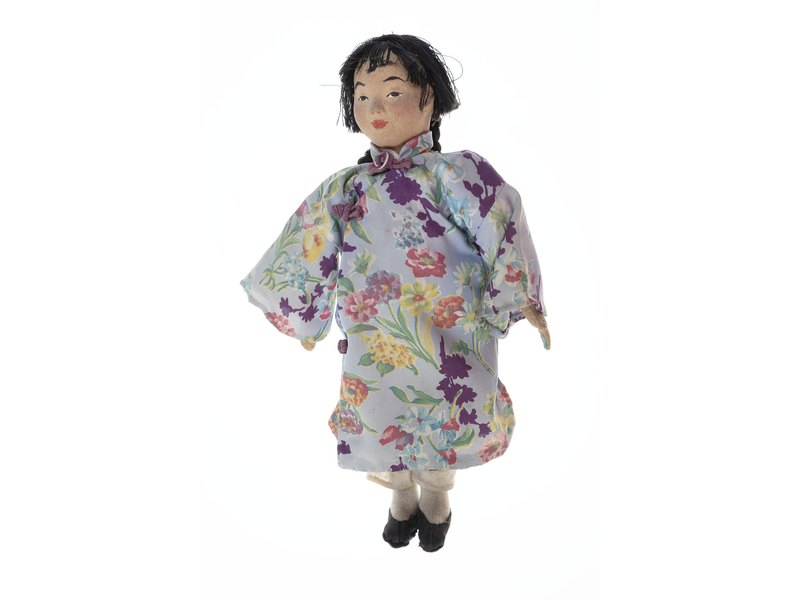
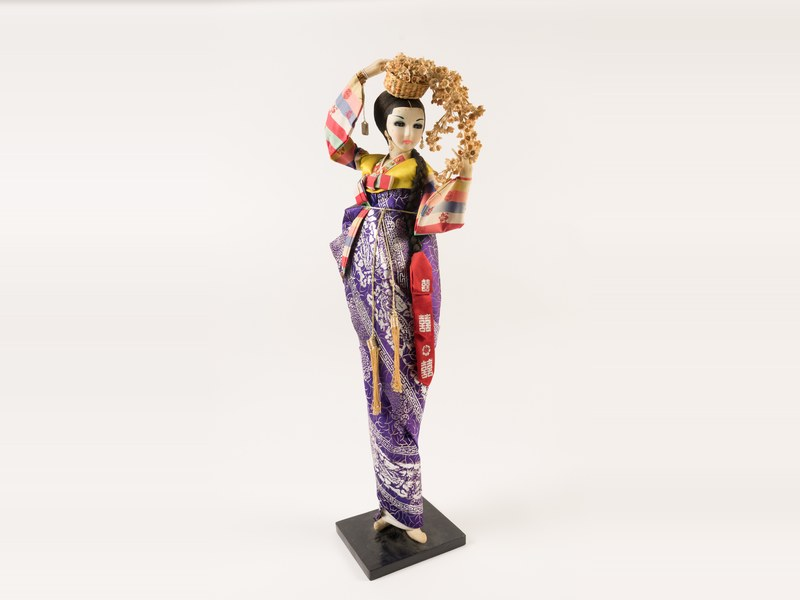
cards: 第24巻の인형を中国風の人形から韓服（チマ・チョゴリ）の韓国の人形（オークランド博物館・CC BY 4.0）に、팽이を上から見た金属のこまから回っている形が分かるカラフルなこま（Skitterphoto・CC0）に差し替え・PHOTO_VER=11・クレジット更新

Changed region(s): [[0.2812, 0.0, 1.0, 0.99], [0.0, 0.0, 0.4062, 0.03]]

diff --git a/cards.html b/cards.html
@@ -1155,14 +1155,14 @@ var VOLUMES = [
   "23-pilteong": { f: "assets/photos/v23-pilteong.jpg", a: "ABX", l: "CC BY-SA 4.0", u: "https://commons.wikimedia.org/wiki/File:School_pencil_cases.jpg" },
   "23-saekjongi": { f: "assets/photos/v23-saekjongi.jpg", a: "Dean Hochman", l: "CC BY 2.0", u: "https://commons.wikimedia.org/wiki/File:Colored_paper_-_Flickr_-_Dean_Hochman.jpg" },
   "23-mulgam": { f: "assets/photos/v23-mulgam.jpg", a: "Ariel Waldman from Muncie", l: "CC BY-SA 2.0", u: "https://commons.wikimedia.org/wiki/File:Set_of_watercolor_paints_-_Ariel_Waldman.jpg" },
-  "24-inhyeong": { f: "assets/photos/v24-inhyeong.jpg", a: "W.P.A. of St. Louis County", l: "Public domain", u: "https://commons.wikimedia.org/wiki/File:Chinese_Girl_Fabric_Doll_Produced_by_the_Works_Progress_Administration_of_St._Louis_County_-_DPLA_-_6e0b0a059e1ed4459fa06752d5005cfc_(page_1).jpg" },
+  "24-inhyeong": { f: "assets/photos/v24-inhyeong.jpg", a: "Auckland Museum", l: "CC BY 4.0", u: "https://commons.wikimedia.org/wiki/File:Doll_(AM_51185-1).jpg" },
   "24-gominhyeong": { f: "assets/photos/v24-gominhyeong.jpg", a: "Jacek Halicki", l: "CC BY-SA 4.0", u: "https://commons.wikimedia.org/wiki/File:2023_Pluszowy_mi%C5%9B.jpg" },
   "24-robot": { f: "assets/photos/v24-robot.jpg", a: "D J Shin", l: "CC BY-SA 3.0", u: "https://commons.wikimedia.org/wiki/File:Ha_Ha_Toys,_Planet_Robot,_Blue,_Main_Street_Toys_Exclusive,_Double_Dose.jpg" },
   "24-beullok": { f: "assets/photos/v24-beullok.jpg", a: "ajay_suresh", l: "CC BY 2.0", u: "https://commons.wikimedia.org/wiki/File:Toy_Blocks_(50995087111).jpg" },
   "24-peojeul": { f: "assets/photos/v24-peojeul.jpg", a: "Hans-Peter Gauster sloppyperfectionist", l: "CC0", u: "https://commons.wikimedia.org/wiki/File:Puzzle_(Unsplash).jpg" },
   "24-pungseon": { f: "assets/photos/v24-pungseon.jpg", a: "Piper from Colorado", l: "CC BY 2.0", u: "https://commons.wikimedia.org/wiki/File:Balloon_bright_(6908691068).jpg" },
   "24-binutbangul": { f: "assets/photos/v24-binutbangul.jpg", a: "Moh tch", l: "CC BY-SA 4.0", u: "https://commons.wikimedia.org/wiki/File:Soap_bubbles_in_Algerian_grassland.jpg" },
-  "24-paengi": { f: "assets/photos/v24-paengi.jpg", a: "Kim Traynor", l: "CC BY-SA 3.0", u: "https://commons.wikimedia.org/wiki/File:Metal_spinning_top,_Museum_of_Childhood,_Edinburgh.JPG" },
+  "24-paengi": { f: "assets/photos/v24-paengi.jpg", a: "Inspired Images", l: "CC0", s: "Skitterphoto", u: "https://skitterphoto.com/photos/10455/retro-spinning-top-toy" },
   "24-yeon": { f: "assets/photos/v24-yeon.jpg", a: "JollyGraham2011", l: "CC BY 2.0", u: "https://commons.wikimedia.org/wiki/File:Portsmouth_Kite_Festival_2016.jpg" },
   "24-geune": { f: "assets/photos/v24-geune.jpg", a: "Kritzolina", l: "CC BY-SA 4.0", u: "https://commons.wikimedia.org/wiki/File:Playground_swing_02.jpg" },
   "24-mikkeureomteul": { f: "assets/photos/v24-mikkeureomteul.jpg", a: "Selbymay", l: "CC BY-SA 3.0", u: "https://commons.wikimedia.org/wiki/File:Tadoussac_-_Playground_slide.jpg" },
@@ -1194,7 +1194,7 @@ var VOLUMES = [
   /* 音声ファイルを追加したら、この数字を上げてください（ブラウザに残った古い404を避けるため） */
   var AUDIO_VER = "2";
   /* 写真を差し替えたら、この数字を上げてください（ブラウザに残った古い画像を避けるため） */
-  var PHOTO_VER = "10";
+  var PHOTO_VER = "11";
   var LANG_KEY = "levelupk_cards_lang";
   var probeCache = {};
   var lang = "ja";
@@ -1418,8 +1418,9 @@ var VOLUMES = [
     if (p.made) return "写真：Level Up K with MiAe Ssem（" + esc(p.l) + "）";
     var who = p.a ? esc(p.a) + " ／ " : "";
     var note = p.m ? "・" + esc(p.m) : "";
+    var src = p.s ? esc(p.s) : "Wikimedia Commons";
     return "写真：<a href=\"" + esc(p.u) + "\" target=\"_blank\" rel=\"noopener noreferrer\">" +
-      who + "Wikimedia Commons</a>（" + esc(p.l) + note + "）";
+      who + src + "</a>（" + esc(p.l) + note + "）";
   }
 
   function photoItem(p, word) {

diff --git a/assets/photos/CREDITS.md b/assets/photos/CREDITS.md
@@ -1,16 +1,18 @@
 # ことばカード「じっさいの しゃしん」写真クレジット
 
 `cards.html` の各ことばカードに表示している写真（360点）の出典一覧です（第5巻「いろ」の15語は色見本）。
-357点は Wikimedia Commons の自由利用ライセンス（CC0 / パブリックドメイン / CC BY / CC BY-SA）の写真、
+356点は Wikimedia Commons の自由利用ライセンス（CC0 / パブリックドメイン / CC BY / CC BY-SA）の写真、
+1点（第24巻の 팽이）は Skitterphoto の CC0 写真、
 3点（第9巻の 백・천・만）は当教室で作った数字の画像（CC0・自作）です。
 ファイルは `assets/photos/v{巻}-{スラッグ}.jpg`（800×600・JPEG）に置いています。
-CC BY / CC BY-SA の写真は、カードの下に「写真：作者 ／ Wikimedia Commons（ライセンス）」と表示しています。
+CC BY / CC BY-SA の写真は、カードの下に「写真：作者 ／ Wikimedia Commons（ライセンス）」と表示しています（Wikimedia Commons 以外の出典はサイト名を表示）。
 第11〜25巻の225点は 2026-11-25 に追加しました（第5巻「いろ」の15語をのぞく全25巻375語が実写真）。
 第6巻（からだ）の 이・어깨・팔・다리 は、体の部分が一目で分かるように元の写真をトリミングし（이のみトリミングなし）、矢印（白フチ付き）を描き足しています（CC BY-SAの写真は改変したことをライセンス欄に明記）。
 第5巻「いろ」の15語は写真ではなく、カードいっぱいに色を塗った色見本で表示しています（出典表示なし）。
 第2巻（しょくぶつ・しき）の 해・달・별 は 2026-11-26 に 第17巻（うちゅう）との 重複を さけ、무궁화（むくげ）・개나리（れんぎょう）・진달래（つつじ）の 写真に 差し替えました。
 第12巻（しょっき）の 숟가락・젓가락・밥그릇・국그릇・국자・쟁반・접시 と、第13巻（ふく・かばん・くつ）の 한복 は、2026-11-26 に韓国式の写真へ差し替えました（접시 は元写真からフォークとナイフを消して背景を作り直し）。
 第13巻の 원피스 は、2026-11-26 に、ドレスそのものが主役になる大人のワンピース（ソウル・東大門デザインプラザの写真）に、책가방 は、日本のランドセルではなく、韓国の子どもが実際に使うようなナイロン製のスクールリュックに差し替えました。
+第24巻（おもちゃ）の 인형 は、2026-11-26 に中国風の人形から、韓服（チマ・チョゴリ）を着た韓国の人形（オークランド博物館所蔵）に、팽이 は、上から見た金属のこまから、回っているようすが分かるカラフルなこま（Skitterphoto の CC0 写真）に差し替えました。
 
 | 巻 | ファイル | ことば | 元のファイル | 作者 | ライセンス | 出典 |
 |---|---|---|---|---|---|---|
@@ -347,14 +349,14 @@ CC BY / CC BY-SA の写真は、カードの下に「写真：作者 ／ Wikimed
 | 第23巻 ようちえん・ぶんぐ | v23-pilteong.jpg | 필통（ふでばこ） | School pencil cases.jpg | ABX | CC BY-SA 4.0 | [Commons](https://commons.wikimedia.org/wiki/File:School_pencil_cases.jpg) |
 | 第23巻 ようちえん・ぶんぐ | v23-saekjongi.jpg | 색종이（おりがみ） | Colored paper - Flickr - Dean Hochman.jpg | Dean Hochman | CC BY 2.0 | [Commons](https://commons.wikimedia.org/wiki/File:Colored_paper_-_Flickr_-_Dean_Hochman.jpg) |
 | 第23巻 ようちえん・ぶんぐ | v23-mulgam.jpg | 물감（えのぐ） | Set of watercolor paints - Ariel Waldman.jpg | Ariel Waldman from Muncie | CC BY-SA 2.0 | [Commons](https://commons.wikimedia.org/wiki/File:Set_of_watercolor_paints_-_Ariel_Waldman.jpg) |
-| 第24巻 おもちゃ | v24-inhyeong.jpg | 인형（にんぎょう） | Chinese Girl Fabric Doll Produced by the Works Progress Administration of St. Louis County - DPLA - 6e0b0a059e1ed4459fa06752d5005cfc (page 1).jpg | W.P.A. of St. Louis County | Public domain | [Commons](https://commons.wikimedia.org/wiki/File:Chinese_Girl_Fabric_Doll_Produced_by_the_Works_Progress_Administration_of_St._Louis_County_-_DPLA_-_6e0b0a059e1ed4459fa06752d5005cfc_(page_1).jpg) |
+| 第24巻 おもちゃ | v24-inhyeong.jpg | 인형（にんぎょう） | Doll (AM 51185-1).jpg | Auckland Museum | CC BY 4.0 | [Commons](https://commons.wikimedia.org/wiki/File:Doll_(AM_51185-1).jpg) |
 | 第24巻 おもちゃ | v24-gominhyeong.jpg | 곰인형（くまのぬいぐるみ） | 2023 Pluszowy miś.jpg | Jacek Halicki | CC BY-SA 4.0 | [Commons](https://commons.wikimedia.org/wiki/File:2023_Pluszowy_mi%C5%9B.jpg) |
 | 第24巻 おもちゃ | v24-robot.jpg | 로봇（ロボット） | Ha Ha Toys, Planet Robot, Blue, Main Street Toys Exclusive, Double Dose.jpg | D J Shin | CC BY-SA 3.0 | [Commons](https://commons.wikimedia.org/wiki/File:Ha_Ha_Toys,_Planet_Robot,_Blue,_Main_Street_Toys_Exclusive,_Double_Dose.jpg) |
 | 第24巻 おもちゃ | v24-beullok.jpg | 블록（ブロック） | Toy Blocks (50995087111).jpg | ajay_suresh | CC BY 2.0 | [Commons](https://commons.wikimedia.org/wiki/File:Toy_Blocks_(50995087111).jpg) |
 | 第24巻 おもちゃ | v24-peojeul.jpg | 퍼즐（パズル） | Puzzle (Unsplash).jpg | Hans-Peter Gauster sloppyperfectionist | CC0 | [Commons](https://commons.wikimedia.org/wiki/File:Puzzle_(Unsplash).jpg) |
 | 第24巻 おもちゃ | v24-pungseon.jpg | 풍선（ふうせん） | Balloon bright (6908691068).jpg | Piper from Colorado | CC BY 2.0 | [Commons](https://commons.wikimedia.org/wiki/File:Balloon_bright_(6908691068).jpg) |
 | 第24巻 おもちゃ | v24-binutbangul.jpg | 비눗방울（しゃぼんだま） | Soap bubbles in Algerian grassland.jpg | Moh tch | CC BY-SA 4.0 | [Commons](https://commons.wikimedia.org/wiki/File:Soap_bubbles_in_Algerian_grassland.jpg) |
-| 第24巻 おもちゃ | v24-paengi.jpg | 팽이（こま） | Metal spinning top, Museum of Childhood, Edinburgh.JPG | Kim Traynor | CC BY-SA 3.0 | [Commons](https://commons.wikimedia.org/wiki/File:Metal_spinning_top,_Museum_of_Childhood,_Edinburgh.JPG) |
+| 第24巻 おもちゃ | v24-paengi.jpg | 팽이（こま） | Retro Spinning Top Toy | Inspired Images | CC0 | [Skitterphoto](https://skitterphoto.com/photos/10455/retro-spinning-top-toy) |
 | 第24巻 おもちゃ | v24-yeon.jpg | 연（たこ） | Portsmouth Kite Festival 2016.jpg | JollyGraham2011 | CC BY 2.0 | [Commons](https://commons.wikimedia.org/wiki/File:Portsmouth_Kite_Festival_2016.jpg) |
 | 第24巻 おもちゃ | v24-geune.jpg | 그네（ぶらんこ） | Playground swing 02.jpg | Kritzolina | CC BY-SA 4.0 | [Commons](https://commons.wikimedia.org/wiki/File:Playground_swing_02.jpg) |
 | 第24巻 おもちゃ | v24-mikkeureomteul.jpg | 미끄럼틀（すべりだい） | Tadoussac - Playground slide.jpg | Selbymay | CC BY-SA 3.0 | [Commons](https://commons.wikimedia.org/wiki/File:Tadoussac_-_Playground_slide.jpg) |
